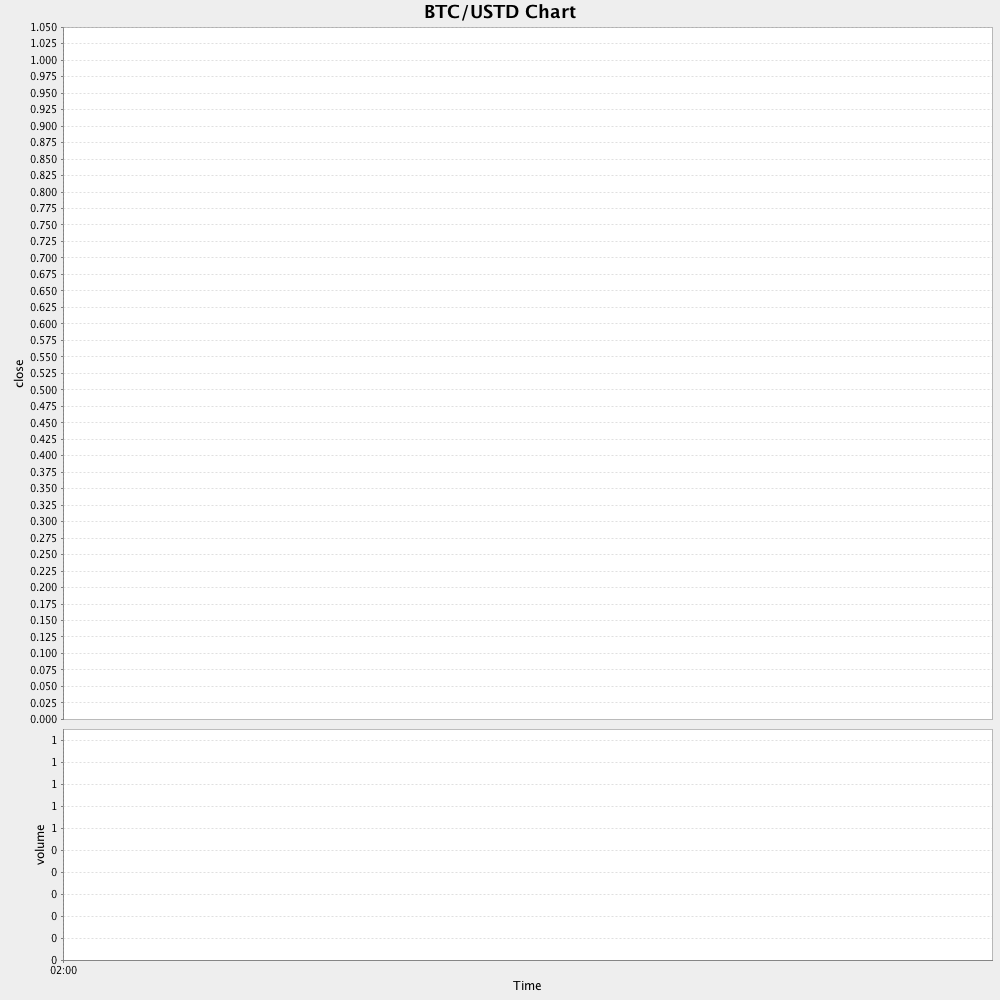
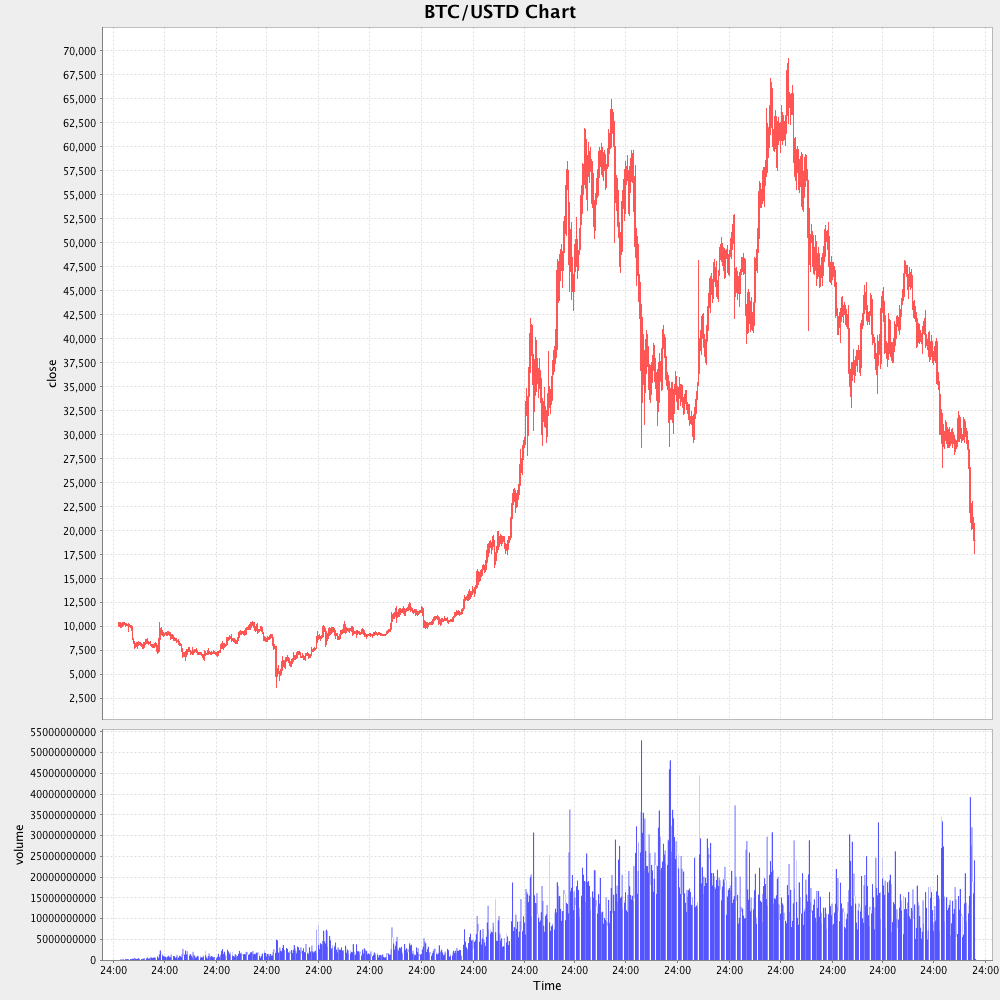
fourth commit

diff --git a/src/main/java/com/gokhantamkoc/javabootcamp/odevhafta3/repository/CryptoDataCSVRepository.java b/src/main/java/com/gokhantamkoc/javabootcamp/odevhafta3/repository/CryptoDataCSVRepository.java
@@ -6,10 +6,13 @@ import java.io.FileReader;
 import java.io.IOException;
 import java.io.InputStream;
 import java.util.ArrayList;
-import java.util.Arrays;
 import java.util.List;
 
 import com.gokhantamkoc.javabootcamp.odevhafta3.model.Candle;
+import com.gokhantamkoc.javabootcamp.odevhafta3.util.TimeUtils;
+
+import ch.qos.logback.core.util.TimeUtil;
+
 
 public class CryptoDataCSVRepository implements CSVRepository {
 	
@@ -20,15 +23,29 @@ public class CryptoDataCSVRepository implements CSVRepository {
 		List<Candle> candles = new ArrayList<Candle>();
 		InputStream inputStream = this.getClass().getClassLoader().getResourceAsStream(filename);
 		// Bu alandan itibaren kodunuzu yazabilirsiniz
-       
+		
 		try (BufferedReader br = new BufferedReader(new FileReader(filename))) {
+		
 			String line;
+			br.readLine();
 			while ((line = br.readLine()) != null) {
+				//unix,date,symbol,open,high,low,close,volume,tradecount	
 				String[] values = line.split(COMMA_DELIMITER);
-				Candle.add(Arrays.asList(values));
+				
+				Candle candleObject=new Candle(0, 0, 0, 0, 0, 0);	
+				candleObject.setTime(TimeUtils.converToLong(values[1]));
+				candleObject.setOpen(Double.parseDouble(values[3]));
+				candleObject.setHigh(Double.parseDouble(values[4]));
+				candleObject.setLow(Double.parseDouble(values[5]));
+				candleObject.setClose(Double.parseDouble(values[6]));
+				candleObject.setVolume(Double.parseDouble(values[7]));
+				
+				candles.add(candleObject);
+				
 			}
+			br.close();
 		}
-
+		
 		// Bu alandan sonra kalan kod'a dokunmayiniz.
 		return candles;
 	}

diff --git a/src/main/java/com/gokhantamkoc/javabootcamp/odevhafta3/service/ChartService.java b/src/main/java/com/gokhantamkoc/javabootcamp/odevhafta3/service/ChartService.java
@@ -21,15 +21,15 @@ public class ChartService {
 		CandleStickChart candleStickChart =new CandleStickChart("BTC/USTD Chart");
 
 		try {
-			List<Candle> candles= this.cryptoDataCSVRepository.readCSV("Binance_BTCUSDT_d.csv");
+			List<Candle> candles= this.cryptoDataCSVRepository.readCSV("/Users/elif/github-classroom/anadolu-bank-java-bootcamp-2022/odev-hafta-3-elifffcansu/src/main/resources/Binance_BTCUSDT_d.csv");
 			for(Candle candle:candles){
 				candleStickChart.addCandle(candle.getTime(),candle.getOpen(),candle.getHigh(),candle.getLow(),candle.getClose(),candle.getVolume());
 			}
 		} catch (FileNotFoundException e) {
-			System.out.println(e);
+			System.out.println(e.getMessage());
 			e.printStackTrace();
 		} catch (IOException e) {
-			System.out.println(e);
+			System.out.println(e.getMessage());
 			e.printStackTrace();
 		}
 		return candleStickChart;

diff --git a/src/main/java/com/gokhantamkoc/javabootcamp/odevhafta3/util/TimeUtils.java b/src/main/java/com/gokhantamkoc/javabootcamp/odevhafta3/util/TimeUtils.java
@@ -22,13 +22,22 @@ public class TimeUtils {
 
 	public static Date convertToDate(long millis) {
 		// Bu metodu doldurmanizi bekliyoruz.
-		DateFormat obj = new SimpleDateFormat("dd MMM yyyy HH:mm:ss:SSS Z");   
-		// we create instance of the Date and pass milliseconds to the constructor    
 		
-		Date date=new Date(millis);
-	  
-		return 	date;
+		// we create instance of the Date and pass milliseconds to the constructor   
+		Date date = new Date(millis);	
+	return date;
 		
 		
+	}
+	public static Long converToLong(String date){
+		
+		long milliseconds = 0;
+		try {
+    		Date d = UTC_DATE.parse(date);
+    		milliseconds = d.getTime();
+		}catch (Exception e) {
+    		e.printStackTrace();
+	}
+	return milliseconds;
 	}
 }

diff --git a/src/main/java/com/gokhantamkoc/javabootcamp/odevhafta3/model/Candle.java b/src/main/java/com/gokhantamkoc/javabootcamp/odevhafta3/model/Candle.java
@@ -1,7 +1,5 @@
 package com.gokhantamkoc.javabootcamp.odevhafta3.model;
 
-import java.util.List;
-
 public class Candle {
 	private long time;
 	private double open;
@@ -56,6 +54,4 @@ public class Candle {
 		this.volume = volume;
 	}
 
-	public static void add(List<String> asList) {
-	}
 }

diff --git a/src/test/java/com/gokhantamkoc/javabootcamp/odevhafta3/tests/TimeUtilsTests.java b/src/test/java/com/gokhantamkoc/javabootcamp/odevhafta3/tests/TimeUtilsTests.java
@@ -2,7 +2,7 @@ package com.gokhantamkoc.javabootcamp.odevhafta3.tests;
 
 import static org.assertj.core.api.Assertions.assertThat;
 
-import java.util.Calendar;
+
 import java.util.Date;
 
 import org.junit.Test;
